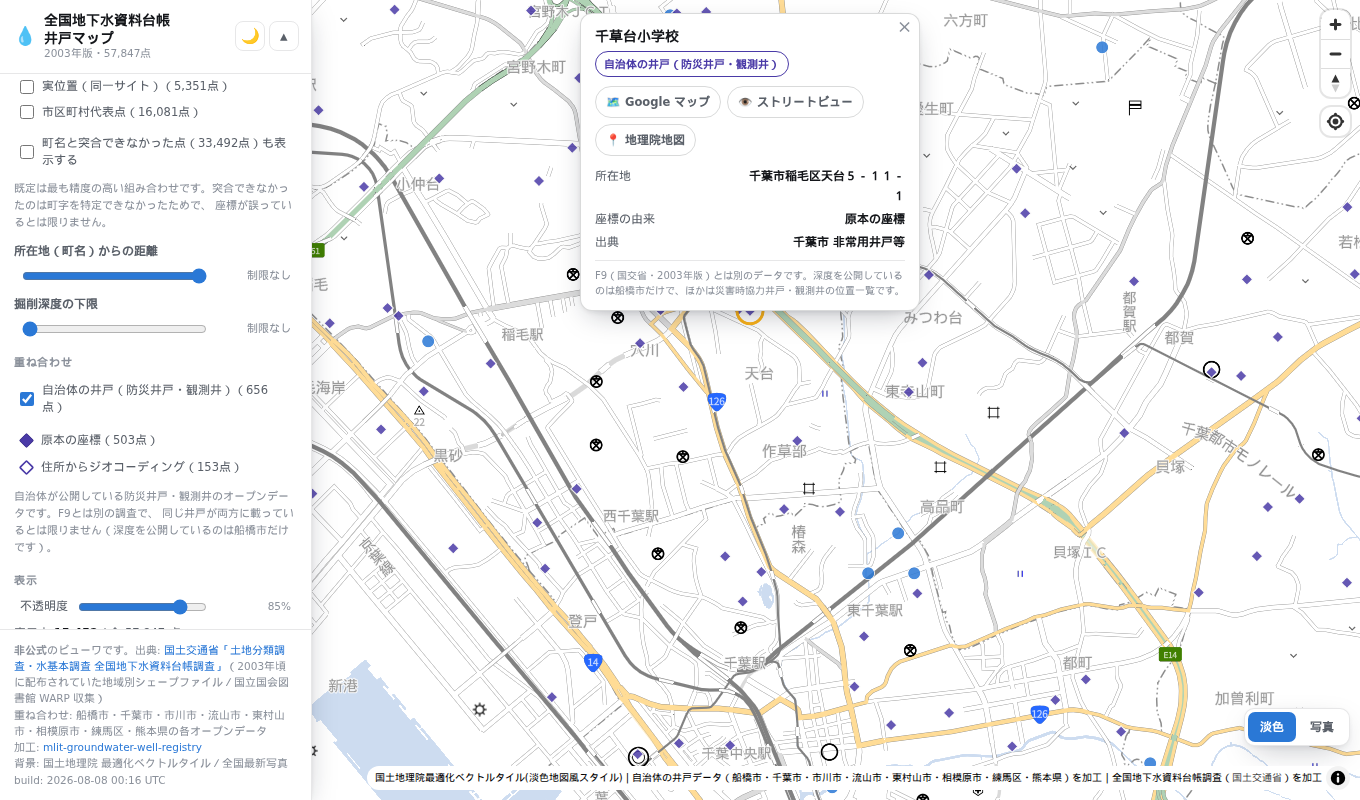
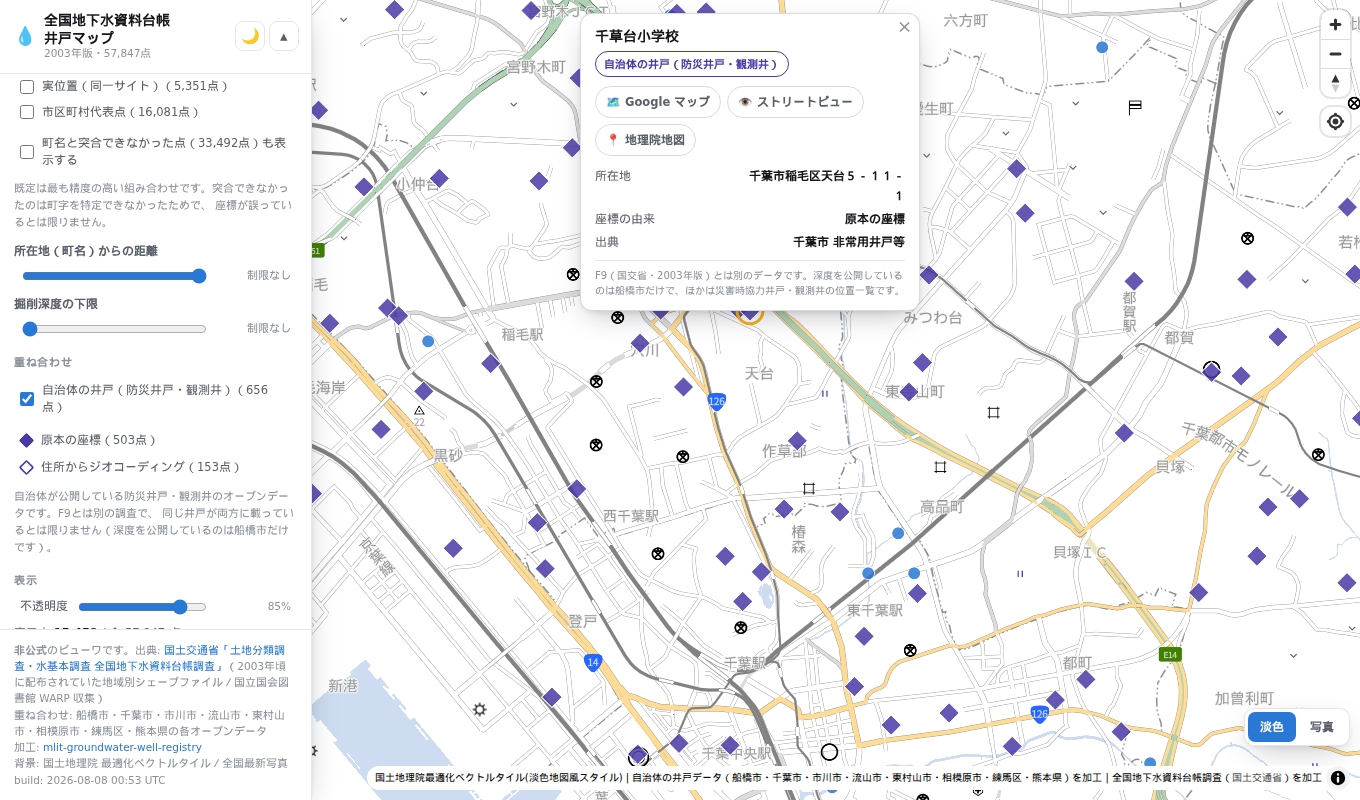
自治体データのマーカーを大きくする
ひし形は同じ差し渡しの丸より面積が6割ほど小さく、F9 の点と並べると沈んで
見えていた。半対角が丸の半径の1.5〜1.6倍になるところまで上げる。

icon-size で 1.0 を超えると拡大されて眠くなるので、いちばん大きく出す z16 が
ちょうど 1.0 になるよう元画像を 28px から 72px にして描き直した。頂点が
切れないよう余白も広げている（90°の角はマイター継ぎが線幅の約1.4倍はみ出す）。

Claude-Session: https://claude.ai/code/session_01PKYt3C16bUU7oMwUuxk5k2

diff --git a/viewer/src/municipal.ts b/viewer/src/municipal.ts
@@ -50,8 +50,14 @@ const ATTRIBUTION =
 
 const ICON_SOLID = 'muni-solid'
 const ICON_HOLLOW = 'muni-hollow'
-/** アイコンの一辺（デバイスピクセル）。pixelRatio 2 で addImage するので見た目は半分。 */
-const ICON_PX = 28
+/**
+ * アイコンの一辺（デバイスピクセル）。pixelRatio 2 で addImage するので見た目は半分。
+ * icon-size で 1.0 を超えると拡大されて眠くなるので、いちばん大きく出す z16 が
+ * ちょうど 1.0 になる大きさで描いておく。
+ */
+const ICON_PX = 72
+/** ひし形の頂点が切れないよう空ける余白。90°の角はマイター継ぎが線幅の約1.4倍はみ出す。 */
+const ICON_PAD = 8
 
 const colorOf = (mode: Theme): string => (mode === 'dark' ? CFG.color.dark : CFG.color.light)
 const surfaceOf = (mode: Theme): string =>
@@ -71,7 +77,7 @@ function diamondImage(color: string, surface: string, hollow: boolean): ImageDat
   if (!ctx) return null
 
   const m = ICON_PX / 2
-  const r = m - 4 // 線幅ぶんの余白を残す
+  const r = m - ICON_PAD
   const path = new Path2D()
   path.moveTo(m, m - r)
   path.lineTo(m + r, m)
@@ -80,14 +86,14 @@ function diamondImage(color: string, surface: string, hollow: boolean): ImageDat
   path.closePath()
 
   if (hollow) {
-    ctx.lineWidth = 5
+    ctx.lineWidth = 8
     ctx.strokeStyle = color
     ctx.stroke(path)
   } else {
     ctx.fillStyle = color
     ctx.fill(path)
     // 点が重なっても粒が分かれて見えるよう、背景色の細いリングを回す（F9 の丸と同じ扱い）
-    ctx.lineWidth = 2
+    ctx.lineWidth = 3
     ctx.strokeStyle = surface
     ctx.stroke(path)
   }
@@ -106,10 +112,17 @@ function addImages(map: maplibregl.Map, mode: Theme): void {
   }
 }
 
-/** ズームに応じた大きさ。F9 の RADIUS と同じ勾配で、丸より一回り大きく見えるようにする。 */
+/**
+ * ズームに応じた大きさ。F9 の RADIUS と同じ勾配だが、一回り大きく出す。
+ *
+ * ひし形は同じ差し渡しの丸より面積が6割ほど小さく、並べると沈んで見える。
+ * 数がF9の2桁下で、しかも自分でチェックを入れて出すレイヤなので、
+ * 半対角が丸の半径の1.5〜1.6倍になるところまで上げている
+ * （画像の半対角は size 1.0 で 14 CSS px）。
+ */
 const ICON_SIZE: ExpressionSpecification = [
   'interpolate', ['linear'], ['zoom'],
-  4, 0.5, 8, 0.75, 12, 1.05, 16, 1.5,
+  4, 0.22, 8, 0.4, 12, 0.65, 16, 1,
 ] as unknown as ExpressionSpecification
 
 function iconExpr(): ExpressionSpecification {
